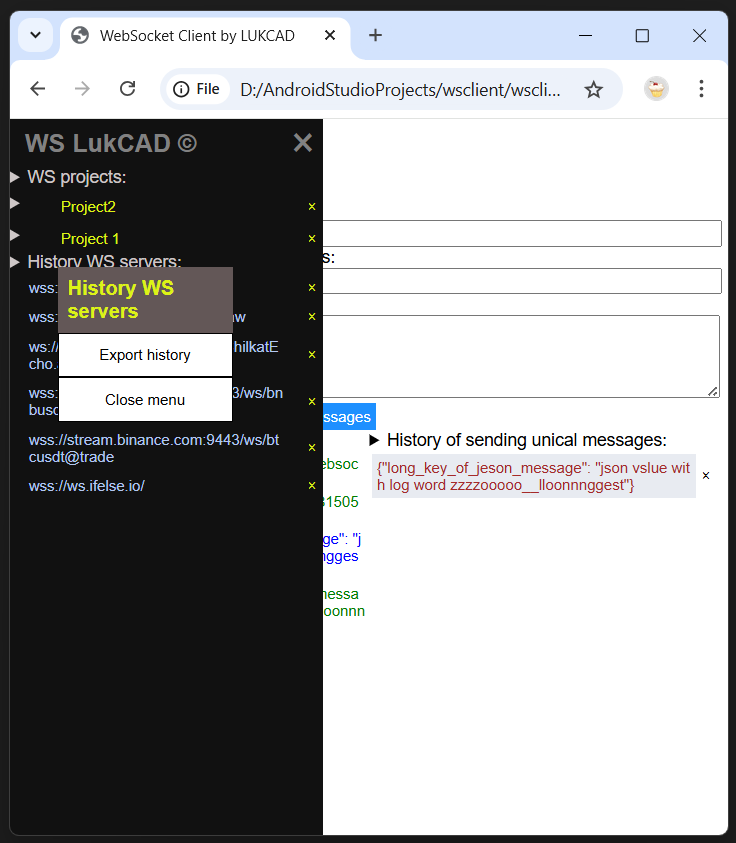
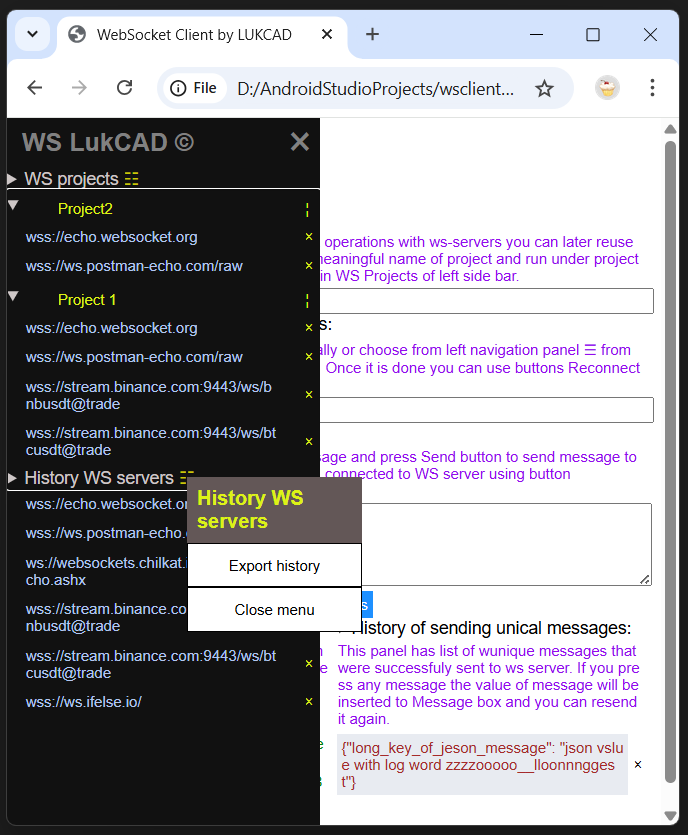
version 1.0.28

diff --git a/wsclient.html b/wsclient.html
@@ -28,6 +28,14 @@
 
         }
 
+        .sidenav details summary span {
+            color: #cac707;
+        }  
+
+        .sidenav details summary span:hover {
+            color: #ddf316;
+        }        
+
         .sidenav {
             height: 100%;
             width: 0;
@@ -341,7 +349,7 @@
             background: #2c2c2c;
         }
 
-        p.wsprojectclose {
+        p.wsprojectmenu {
             cursor: pointer;
 
             width: auto;
@@ -352,7 +360,7 @@
 
         }
 
-        p.wsprojectclose:hover {
+        p.wsprojectmenu:hover {
             background: #bbb;
         }
 
@@ -471,7 +479,7 @@
         <a href="javascript:void(0)" class="closebtn" onclick="closeNav()">&times;</a>
         <details style="padding-top: 24px;">
             <summary title="press right button to open context menu" oncontextmenu="openMenuWSProjectsActions(event)">WS
-                projects:</summary>
+                projects&nbsp;<span onclick="openMenuWSProjectsActions(event)">&#9783;</span></summary>
             <p>In this panel you can choose previously created WS Project where you combine relevant ws-servers and
                 relevant messages by the same way how for History but isolated by name of project. Projects have ability
                 to be exported and imported by pressing on right button when cursor over project name of 'WS Projects'.
@@ -480,7 +488,7 @@
         <div id="listWsProjects"></div>
         <details ontoggle="showHistoryWsServers()">
             <summary title="press right button to open context menu" oncontextmenu="openMenuHistoryActions(event)">
-                History WS servers:</summary>
+                History WS servers&nbsp;<span onclick="openMenuHistoryActions(event)">&#9783;</span></summary>
             <p>In this panel you can choose previously successfuly used web socket servers that we stored in history of
                 your web browser during your testing. If this list is empty, try send something to demoserver which is
                 proposed by default.</p>
@@ -494,7 +502,7 @@
             <div style="cursor:pointer;white-space: nowrap" onclick="openNav()">
                 <h4>&#9776; WebSocket Client</h4>
             </div>
-            <div id="release">v1.0.27RC</div>
+            <div id="release">v1.0.28</div>
             <div id="newrelease"></div>
         </div>
 
@@ -533,6 +541,7 @@
         <div id="menuProjectActions" class="dropdownmenu" style="display: none;">
             <b id="namemenuProjectActions"></b>
             <p id="exportProject" onclick="clickMenuItemOnProjectActions(event)">Export project</p>
+            <p id="removeProject" onclick="clickMenuItemOnProjectActions(event)">Remove project</p>
             <p id="closeProjectMenu" onclick="clickMenuItemOnProjectActions(event)">Close menu</p>
         </div>
 
@@ -823,28 +832,7 @@
             et.target.parentElement.style.display = "none";
         }
 
-        function openMenuProjectActions(e) {
 
-            e.preventDefault();
-
-            var menu = document.getElementById("menuProjectActions");
-
-            // close other elements with class "dropdownmenu"
-            closeDropDownLists(menu.id);
-
-            // add title in itmes of menu according to target (target here is souce of event)
-            var _wsprojectname = e.target.innerHTML;
-            document.getElementById("exportProject").title = _wsprojectname ?? '';
-            document.getElementById("closeProjectMenu").title = _wsprojectname ?? '';
-
-            // write title of menu
-            document.getElementById("namemenuProjectActions").innerHTML = _wsprojectname;
-
-            // show 'context menu'
-            menu.style.left = e.pageX + "px";
-            menu.style.top = e.pageY + "px";
-            menu.style.display = "block";
-        }
 
         function clickMenuItemOnProjectActions(et) {
             // do operations according to context menu here:
@@ -866,6 +854,63 @@
                 link.download = `${_wsprojectid}.wsclient`;
                 link.click();
                 URL.revokeObjectURL(link.href);
+            }
+
+            if (actionName === 'removeProject') {
+                var result = confirm(`Want to delete WS project: "${_wsprojectname}" ? Message history and WS servers of project will be deleted as well.`);
+                if (result) {
+                    var deleteactivews = false;
+                    if (_wsprojectname === wsProjectName) {
+                        console.log('delete active');
+                        deleteactivews = true;
+                        //closeConnect();
+                    }
+                    if (arrProjects.indexOf(_wsprojectname) >= 0) {
+                        var indextoremove = arrProjects.indexOf(_wsprojectname);
+                        var newarrprojects = [];
+                        for (let index = 0; index < arrProjects.length; index++) {
+
+                            if (index !== indextoremove) {
+                                if (arrProjects[index] !== null) {
+                                    newarrprojects.push(arrProjects[index]);
+                                }
+                            }
+                        }
+                        arrProjects = newarrprojects;
+
+                        var json_projects_str = JSON.stringify(arrProjects);
+                        localStorage.setItem("wsmsprojects", json_projects_str);
+
+                        if (_wsprojectid !== '') {
+                            if (localStorage.getItem(`${_wsprojectid}wsmsservers`) !== null) {
+                                localStorage.removeItem(`${_wsprojectid}wsmsservers`);
+                            }
+                            if (localStorage.getItem(`${_wsprojectid}wsmshistory`) !== null) {
+                                localStorage.removeItem(`${_wsprojectid}wsmshistory`);
+                            }
+                        }
+
+                        if (document.getElementById(_wsprojectid) !== null) {
+                            var _removeelement =  document.getElementById(_wsprojectid);
+                           _removeelement.remove();
+                        }
+
+                        if (deleteactivews) {
+
+                            document.getElementById("nameProject").value = '';
+                            wsProjectName = '';
+                            setProjectId();
+                            setArrHistory();
+                            reloadHistory();
+                            setArrWSservers();
+                            reloaNav();
+                            reloadProjects();
+                        }
+
+                        // close side bar
+                        closeNav();
+                    }
+                }
             }
 
 
@@ -1006,16 +1051,17 @@
             wsprojectname.innerHTML = `${wsproject}`;
             wsprojectname.oncontextmenu = openMenuProjectActions;
 
-            var wsprojectclose = document.createElement("p");
-            wsprojectclose.title = "remove from history";
-            wsprojectclose.onclick = removeWsProject;
-            wsprojectclose.className = "wsprojectclose";
-            wsprojectclose.innerHTML = "&times;";
+            var wsprojectmenu = document.createElement("p");
+            wsprojectmenu.title = "project menu";
+            wsprojectmenu.onclick = openMenuProjectActions;
+            wsprojectmenu.oncontextmenu = openMenuProjectActions;
+            wsprojectmenu.className = "wsprojectmenu";
+            wsprojectmenu.innerHTML = "&nbsp;&brvbar;&nbsp;";
 
             var wsprojectrow = document.createElement("div");
             wsprojectrow.className = "wsprojectrow";
             wsprojectrow.appendChild(wsprojectname);
-            wsprojectrow.appendChild(wsprojectclose);
+            wsprojectrow.appendChild(wsprojectmenu);
 
             var wsprojectsummary = document.createElement("summary");
             wsprojectsummary.className = "wssummary";
@@ -1026,6 +1072,7 @@
 
 
             var wsprojectdetails = document.createElement("details");
+            wsprojectdetails.setAttribute("id", `${convertProjectNameToId(wsproject)}`);
             wsprojectdetails.ontoggle = showProjectWsServers;
             wsprojectdetails.className = "wsproject";
             wsprojectdetails.appendChild(wsprojectsummary);
@@ -1067,65 +1114,28 @@
                 closeNav();
             }
 
-            function removeWsProject() {
-                var result = confirm(`Want to delete WS project: "${wsproject}" ? Message history and WS servers of project will be deleted as well.`);
-                if (result) {
-                    var _wsProjectId = convertProjectNameToId(wsproject) ?? '';
-                    var deleteactivews = false;
-                    if (wsproject === wsProjectName) {
-                        console.log('delete active');
-                        deleteactivews = true;
-                        //closeConnect();
-                    }
-                    if (arrProjects.indexOf(wsproject) >= 0) {
-                        var indextoremove = arrProjects.indexOf(wsproject);
-                        var newarrprojects = [];
-                        for (let index = 0; index < arrProjects.length; index++) {
+            function openMenuProjectActions(e) {
 
-                            if (index !== indextoremove) {
-                                if (arrProjects[index] !== null) {
-                                    newarrprojects.push(arrProjects[index]);
-                                }
-                            }
-                        }
-                        arrProjects = newarrprojects;
+                e.preventDefault();
 
-                        var json_projects_str = JSON.stringify(arrProjects);
-                        localStorage.setItem("wsmsprojects", json_projects_str);
+                var menu = document.getElementById("menuProjectActions");
 
-                        if (_wsProjectId !== '') {
-                            if (localStorage.getItem(`${_wsProjectId}wsmsservers`) !== null) {
-                                localStorage.removeItem(`${_wsProjectId}wsmsservers`);
-                            }
-                            if (localStorage.getItem(`${_wsProjectId}wsmshistory`) !== null) {
-                                localStorage.removeItem(`${_wsProjectId}wsmshistory`);
-                            }
-                        }
+                // close other elements with class "dropdownmenu"
+                closeDropDownLists(menu.id);
 
-                        if (this.parentElement.parentElement !== null) {
-                            if (this.parentElement.parentElement.parentElement != null) {
-                                this.parentElement.parentElement.parentElement.remove();
-                            }
-                        }
+                // add title in itmes of menu according to target (target here is souce of event)
+                var _wsprojectname = wsproject; // e.target.innerHTML;
+                document.getElementById("exportProject").title = _wsprojectname ?? '';
+                document.getElementById("removeProject").title = _wsprojectname ?? '';
+                document.getElementById("closeProjectMenu").title = _wsprojectname ?? '';
 
+                // write title of menu
+                document.getElementById("namemenuProjectActions").innerHTML = _wsprojectname;
 
-
-                        if (deleteactivews) {
-
-                            document.getElementById("nameProject").value = '';
-                            wsProjectName = '';
-                            setProjectId();
-                            setArrHistory();
-                            reloadHistory();
-                            setArrWSservers();
-                            reloaNav();
-                            reloadProjects();
-                        }
-
-                        // close side bar
-                        closeNav();
-                    }
-                }
+                // show 'context menu'
+                menu.style.left = e.pageX + "px";
+                menu.style.top = e.pageY + "px";
+                menu.style.display = "block";
             }
         }
 
@@ -1136,7 +1146,6 @@
             var wshistname = document.createElement("p");
             wshistname.style.wordWrap = "break-word";
             wshistname.className = "wshistname"
-            // wshistname.href = `javascript:void(0)`;
             wshistname.onclick = chooseWsServer;
             wshistname.title = "click to choose";
             wshistname.setAttribute("prjname", wrprojectname);
@@ -1147,7 +1156,7 @@
             wshistclose.onclick = removeWsServer;
             wshistclose.className = "wshistclose";
             wshistclose.setAttribute("prjname", wrprojectname);
-            wshistclose.innerHTML = "&times;";
+            wshistclose.innerHTML = "&nbsp;&times;";
 
             var wshistrow = document.createElement("div");
             wshistrow.className = "wshistrow";

diff --git a/README.md b/README.md
@@ -4,7 +4,7 @@
 
 `wsclient.html` is a single client file which works in all browsers by using just only HTML and pure javascipt.
 
-### Arcitecture:
+### Arcitecture
 
 - This client creates websocket listener with name `socket` with all event methods during start html page or during pressing button for re-coonection:
 
@@ -18,7 +18,7 @@
   - socket.close()
   - socket.send(message)
 
-### User Interface of client:
+### User Interface of client
 
 `Html page` has interactive elements to support:
 
@@ -51,18 +51,18 @@
   - Group `WS Projects`
 
     - You can `add new project` with by executing sending request when `Project name` is filled in or `enrich existing project`.
-    - You can `remove project` together with relevant ws servers and history using icon &times;.
+    - You can `remove project` together with relevant ws servers and history using context menu by right button or icon &nbsp;&brvbar;&nbsp; and then by choosing `Remove project`.
     - You can `ws-server remove from project` if you expand list servers and press icon &times; against name of server.
-    - if you have to `import new project` or `enrich existing project` from your local machine you can do it by context menu pressing right button on name group `WS projects` and press `Import project/history`.
+    - if you have to `import new project` or `enrich existing project` from your local machine you can do it by context menu pressing right button on name group `WS projects` and press `Import project/history`. Also you can open context menu to execute this operation by using icon &#9783;.
     - if you have to `export project` you can press the name of project by right button to start context menu where you can choose `Export project` item.
 
   - Group `History WS servers`
 
     - You can `add new ws-server` here when send successful message with empty `Project name`.
     - You can `remove` any `ws server` using icon &times;
-    - you can `export history ws-servers` by pressing righ button on `History WS servers` and choosing from context menu `Export history` item.
+    - you can `export history ws-servers` by pressing righ button on `History WS servers` and choosing from context menu `Export history` item. Also you can open context menu to execute this operation by using icon &#9783;.
 
-### General Notices:
+### General Notices
 
 - `Information how to use` is provided by details text which can be expanded or hided when you press on item of page which has this symbol: &#x27A4;
 
@@ -77,7 +77,7 @@
 You can simply clone project from GitHub and start use file [`wsclient.html`](wsclient.html) for your testing of sending messages to web socket servers, by using in terminal of your VS code studio this command:
 
 ```
-git clone https://github.com/lukcad/wsclient.git
+git clone https://github.com/lukcad/wsclie
 ```
 
 ![alt text](image.png)
